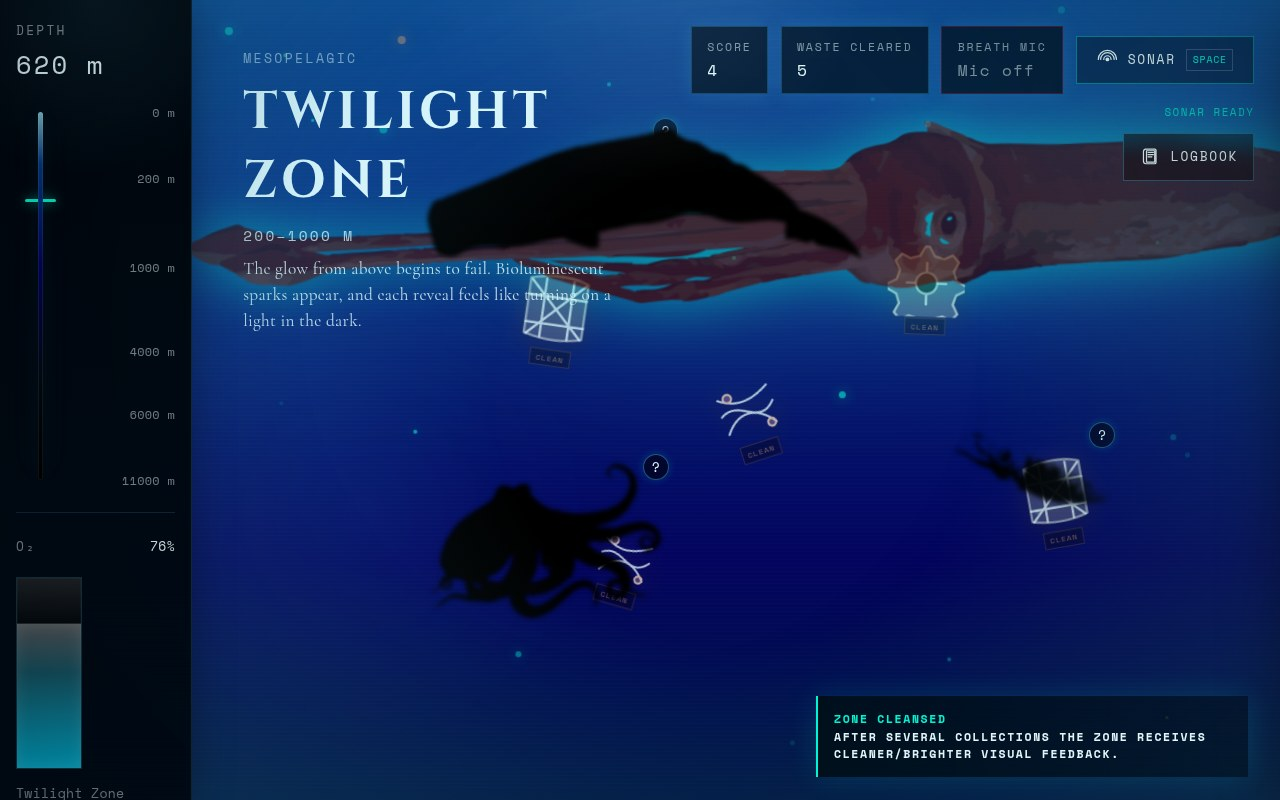
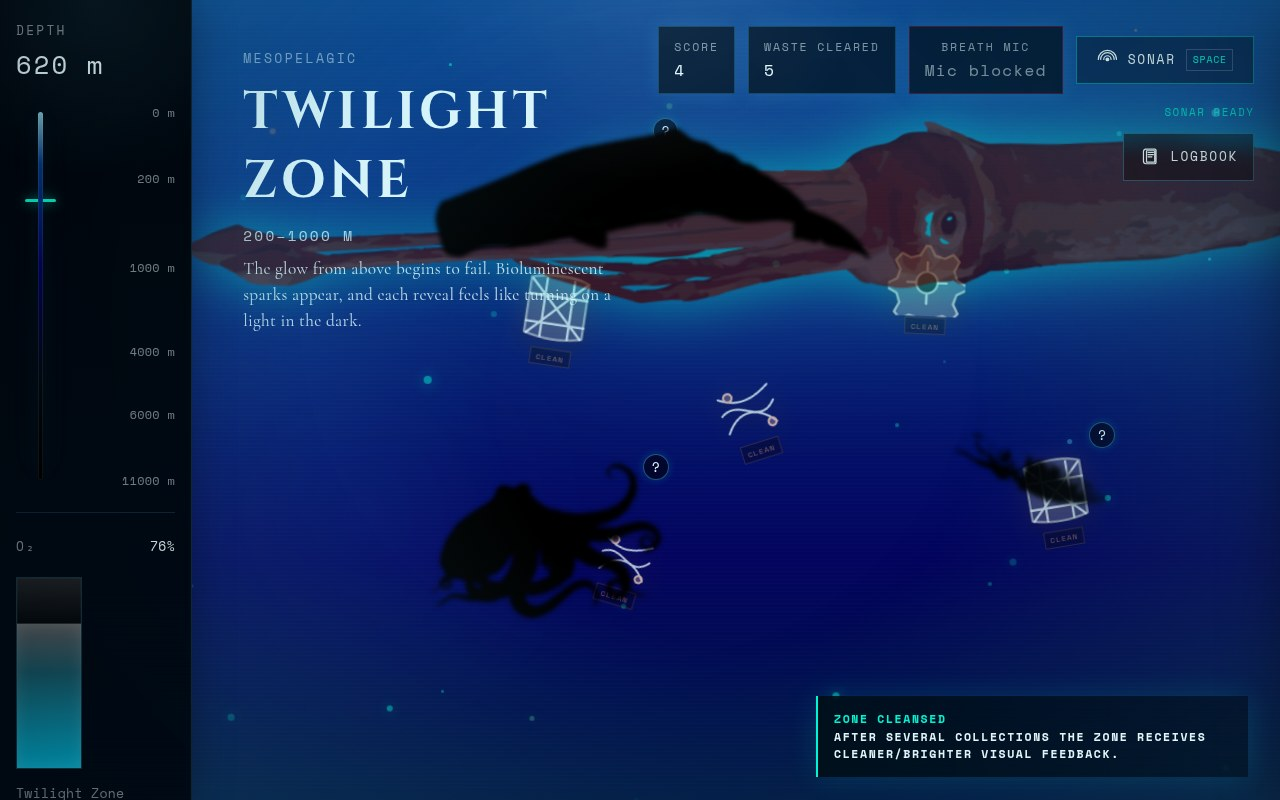
docs: update review test notes

diff --git a/README.md b/README.md
@@ -69,6 +69,7 @@ http://127.0.0.1:4173/
 - [ ] Open the logbook and test Common/Rare/Legendary filters
 - [ ] Confirm O2 drains and refills
 - [ ] Confirm O2 drains faster in deeper zones than at the surface
+- [ ] Confirm Abyssal has 2 discoverable creatures: Basket Star and Sea Pig
 - [ ] Confirm Abyssal and Hadal look distinct, with Hadal showing green-black pressure atmosphere and slower larger marine snow
 - [ ] Enter Twilight and confirm the giant squid pass is visible above the background atmosphere; later, confirm Giant Squid discovery still happens in Midnight
 - [ ] Confirm underwater ambience starts after user interaction if browser audio is allowed; it should feel muffled/low-pass, not click-heavy
@@ -79,6 +80,8 @@ http://127.0.0.1:4173/
 ## Audio notes and credits
 
 The active in-app soundscape is procedural Web Audio: low-passed current noise, low rumble, soft bubbles near the surface, and slower pressure/creature tones deeper down. The Twilight squid pass also plays a local hydrophone-style cue. This avoids demo-time network dependency and avoids sharp click-heavy samples.
+
+Breath mic requires `localhost` or HTTPS. If the HUD shows `Tap retry` or `Mic blocked`, click the Breath Mic chip after allowing microphone permission.
 
 - `assets/audio/sperm_whale_clicks.ogg`: "Sperm Whale Ordinary Clicks" from Wikimedia Commons, CC0.
 - `assets/audio/noaa_bloop.wav`, `assets/audio/noaa_calving.wav`, `assets/audio/noaa_tremor.wav`, `assets/audio/noaa_julia.wav`: NOAA PMEL Acoustics public sound examples.
